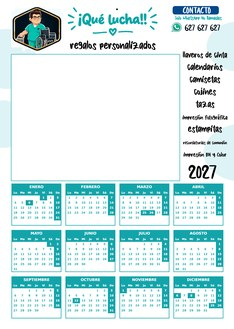
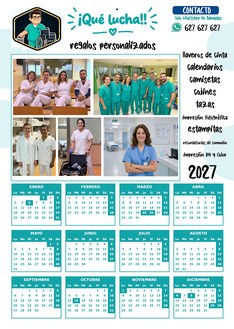
Ratón: plantilla (base, marco sin fondo blanco, zona); Nido: marco nuevo; ejemplo de calendario en la portada y en el producto Que Lucha!
Claude-Session: https://claude.ai/code/session_014LaVctuuRFrERymH3cMJEp

Changed region(s): [[0.0299, 0.152, 0.7778, 0.5471]]

diff --git a/index.html b/index.html
@@ -79,6 +79,7 @@ section{padding:44px 0 10px}
 .prod .foto{aspect-ratio:1/1;background:var(--ac-l);display:flex;align-items:center;justify-content:center;position:relative;overflow:hidden}
 .prod .foto img{width:100%;height:100%;object-fit:contain;padding:8px 0}
 .prod .foto.alto{aspect-ratio:3/4;background:#fff}
+.prod .foto.alto .etq{top:auto;bottom:10px}
 .prod .foto svg{width:64px;height:64px;stroke:var(--ac);fill:none;stroke-width:1.5;stroke-linecap:round;stroke-linejoin:round;opacity:.8}
 .prod .cuerpo{padding:14px 14px 16px;display:flex;flex-direction:column;flex:1}
 .prod h3{margin:0;font-size:18px;color:var(--navy)}
@@ -90,9 +91,8 @@ section{padding:44px 0 10px}
 
 /* Más que un regalo */
 .regalo{background:var(--ac-l);border-radius:24px;padding:30px 26px;margin-top:34px;text-align:center}
-.regalo p{max-width:520px;margin-left:auto;margin-right:auto}
 .regalo h2{margin:0;font-size:clamp(26px,5.5vw,36px)}
-.regalo p{margin:8px 0 0;font-size:17px;line-height:1.5}
+.regalo p{margin:8px auto 0;max-width:520px;font-size:17px;line-height:1.5}
 .gracias{display:inline-block;margin-top:16px;background:var(--ac);color:#fff;border-radius:14px 22px 16px 24px;padding:14px 24px;font-family:"Segoe Print","Bradley Hand","Comic Sans MS",cursive;font-weight:700;font-style:italic;font-size:20px;line-height:1.25;transform:rotate(-3deg)}
 
 /* Contacto y pie */
@@ -153,7 +153,7 @@ footer small{display:block;margin-top:14px;opacity:.92}
       <div class="tit"><h2 class="display">Nuestros productos</h2><p>Detalles que emocionan, recuerdos que perduran.</p></div>
       <div class="rejilla">
         <article class="prod">
-          <div class="foto alto"><img src="disenos/quelucha/base.jpg" alt="Calendario de pared personalizado con tus fotos" loading="lazy"><span class="etq ok">Disponible</span></div>
+          <div class="foto alto"><img src="img/ejemplo-quelucha.jpg" alt="Ejemplo de calendario de pared con fotos del equipo" loading="lazy"><span class="etq ok">Disponible</span></div>
           <div class="cuerpo">
             <h3>Calendarios de pared</h3>
             <p>Cada mes, una razón para sonreír. Con tus propias fotos.</p>

diff --git a/admin.html b/admin.html
@@ -90,7 +90,7 @@ const SIT={rev:["Por revisar fotos","#FFF1CC","#7A4B00"],listo:["Listo para impr
 const ORDEN=["rev","listo","imp","ent"];
 const SIGUIENTE={rev:"Marcar fotos como revisadas",listo:"Marcar como impreso",imp:"Marcar como entregado"};
 // Plantillas a resolución de impresión (200 ppp) para el archivo final
-const PLANTILLAS={quelucha:{base:"disenos/quelucha/base_full.jpg",marco:null},nido:{base:"disenos/nido/base_full.jpg",marco:"disenos/nido/marco_full.png"}};
+const PLANTILLAS={raton:{base:"disenos/raton/base_full.jpg",marco:"disenos/raton/marco_full.png"},quelucha:{base:"disenos/quelucha/base_full.jpg",marco:null},nido:{base:"disenos/nido/base_full.jpg",marco:"disenos/nido/marco_full.png"}};
 const I={logo:'<svg width="20" height="20" viewBox="0 0 24 24" fill="none" stroke="#fff" stroke-width="1.8" stroke-linecap="round" stroke-linejoin="round"><rect x="3" y="3" width="8" height="10" rx="2"/><rect x="13" y="3" width="8" height="6" rx="2"/><rect x="13" y="11" width="8" height="10" rx="2"/><rect x="3" y="15" width="8" height="6" rx="2"/></svg>',
  back:'<svg width="16" height="16" viewBox="0 0 24 24" fill="none" stroke="currentColor" stroke-width="2.2" stroke-linecap="round" stroke-linejoin="round"><path d="M19 12H5M11 6l-6 6 6 6"/></svg>',
  print:'<svg width="18" height="18" viewBox="0 0 24 24" fill="none" stroke="currentColor" stroke-width="2" stroke-linecap="round" stroke-linejoin="round" style="vertical-align:-3px;margin-right:6px"><path d="M6 9V3h12v6M6 18H4a2 2 0 0 1-2-2v-5a2 2 0 0 1 2-2h16a2 2 0 0 1 2 2v5a2 2 0 0 1-2 2h-2M6 14h12v7H6z"/></svg>'};

diff --git a/pedir.html b/pedir.html
@@ -209,6 +209,7 @@ const ZONA_BASE = C.ZONA_FOTOS || {w:29.44, h:17.1};   // cm (se usa en los dise
 // Diseños con plantilla real. zona = rectángulo de fotos en cm sobre la hoja de 32 x 45. anios = años para los que hay plantilla.
 const DISENOS = {
   quelucha:{producto:"quelucha", anios:[2027], base:"disenos/quelucha/base.jpg", marco:null, zona:{x:1.575,y:7.467,w:22.97,h:17.22}},
+  raton:{producto:"premium", anios:[2027], base:"disenos/raton/base.jpg", marco:"disenos/raton/marco.png", zona:{x:5.587,y:4.203,w:21.537,h:16.317}},
   nido:{producto:"premium", anios:[2027], base:"disenos/nido/base.jpg", marco:"disenos/nido/marco.png", zona:{x:6.571,y:5.175,w:18.877,h:14.248}}
 };
 function disenoAct(){ const v=variante(), k=v?v.id:(prod()?prod().id:null); return (prod() && k && DISENOS[k] && DISENOS[k].producto===prod().id) ? DISENOS[k] : null; }
